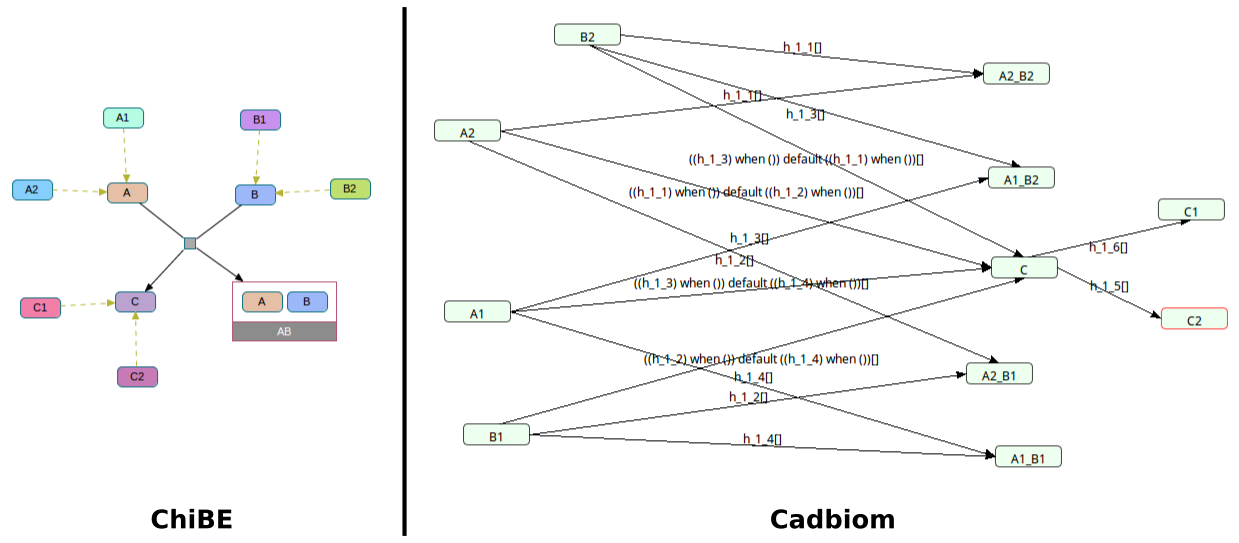
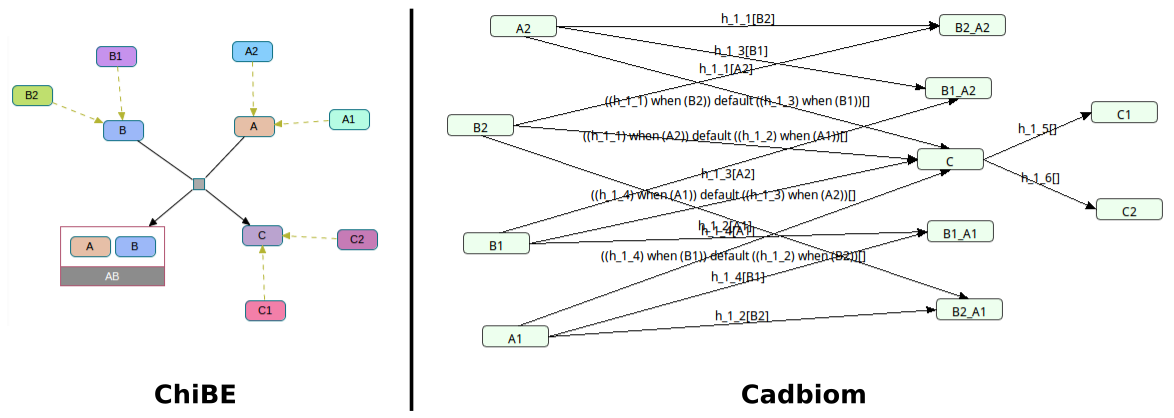
Fix bug about guards

diff --git a/src/biopax2cadbiom.py b/src/biopax2cadbiom.py
@@ -475,10 +475,11 @@ def updateTransitions(reaction, dictPhysicalEntity, dictReaction, dictTransition
 				})
 				subH += 1
 	
+	currentKeys = list(subDictTransition.keys())
 	for entityL in leftEntities:
 		if entityToEntitiesMatched[entityL] == set(): 
 			for equisL,cadbiomL in entityToListOfEquivalentsAndCadbiomName[entityL]:
-				for left,right in list(subDictTransition.keys()):
+				for left,right in currentKeys:
 					for transition in subDictTransition[(left,right)]:
 						transitionSympyCond = transition['sympyCond']
 						sympySymbol = sympy.Symbol(left)
@@ -500,7 +501,7 @@ def updateTransitions(reaction, dictPhysicalEntity, dictReaction, dictTransition
 			dictTransition[(left,right)].append({
 				'event': event,
 				'reaction': reaction,
-				'sympyCond': transitionSympyCond
+				'sympyCond': transition['sympyCond']
 			})
 
 
